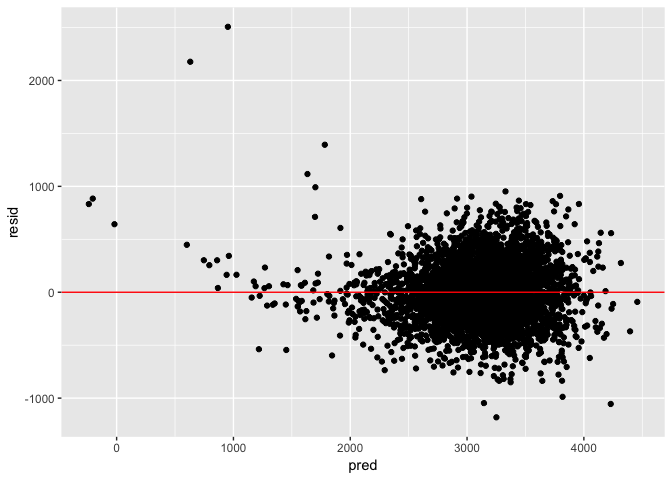
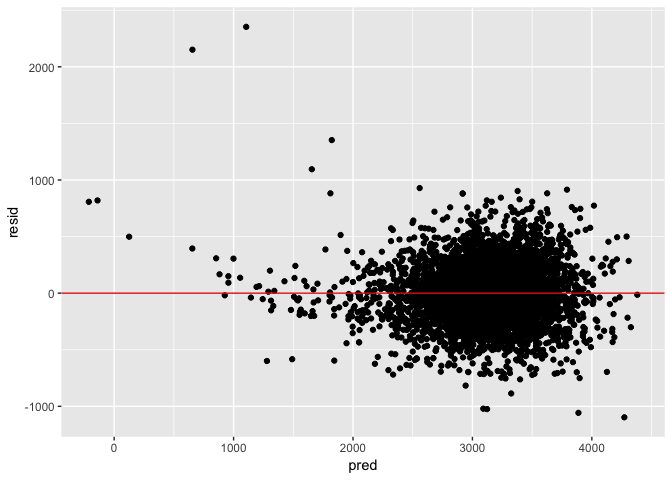
change the model

diff --git a/hw6.md b/hw6.md
@@ -206,86 +206,208 @@ is.na(birth_df)
 ### Model builting
 
 ``` r
-library("leaps")
 mult.fit = lm(bwt ~., data = birth_df)
-summary(mult.fit)
+pred_reg = step(mult.fit, direction = 'both')
 ```
 
+    ## Start:  AIC=48717.83
+    ## bwt ~ babysex + bhead + blength + delwt + fincome + frace + gaweeks + 
+    ##     malform + menarche + mheight + momage + mrace + parity + 
+    ##     pnumlbw + pnumsga + ppbmi + ppwt + smoken + wtgain
     ## 
-    ## Call:
-    ## lm(formula = bwt ~ ., data = birth_df)
     ## 
-    ## Residuals:
-    ##      Min       1Q   Median       3Q      Max 
-    ## -1097.68  -184.86    -3.33   173.09  2344.15 
+    ## Step:  AIC=48717.83
+    ## bwt ~ babysex + bhead + blength + delwt + fincome + frace + gaweeks + 
+    ##     malform + menarche + mheight + momage + mrace + parity + 
+    ##     pnumlbw + pnumsga + ppbmi + ppwt + smoken
     ## 
-    ## Coefficients: (3 not defined because of singularities)
-    ##               Estimate Std. Error t value Pr(>|t|)    
-    ## (Intercept) -6265.3914   660.4011  -9.487  < 2e-16 ***
-    ## babysex2       28.7073     8.4652   3.391 0.000702 ***
-    ## bhead         130.7781     3.4523  37.881  < 2e-16 ***
-    ## blength        74.9536     2.0217  37.075  < 2e-16 ***
-    ## delwt           4.1007     0.3948  10.386  < 2e-16 ***
-    ## fincome         0.2898     0.1795   1.614 0.106551    
-    ## frace2         14.3313    46.1501   0.311 0.756168    
-    ## frace3         21.2361    69.2960   0.306 0.759273    
-    ## frace4        -46.9962    44.6782  -1.052 0.292912    
-    ## frace8          4.2969    74.0741   0.058 0.953745    
-    ## gaweeks        11.5494     1.4654   7.882 4.06e-15 ***
-    ## malform1        9.7650    70.6259   0.138 0.890039    
-    ## menarche       -3.5508     2.8951  -1.226 0.220083    
-    ## mheight         9.7874    10.3116   0.949 0.342588    
-    ## momage          0.7593     1.2221   0.621 0.534418    
-    ## mrace2       -151.4354    46.0453  -3.289 0.001014 ** 
-    ## mrace3        -91.3866    71.9190  -1.271 0.203908    
-    ## mrace4        -56.4787    45.1369  -1.251 0.210901    
-    ## parity         95.5411    40.4793   2.360 0.018307 *  
-    ## pnumlbw             NA         NA      NA       NA    
-    ## pnumsga             NA         NA      NA       NA    
-    ## ppbmi           4.3538    14.8913   0.292 0.770017    
-    ## ppwt           -3.4716     2.6121  -1.329 0.183913    
-    ## smoken         -4.8544     0.5871  -8.269  < 2e-16 ***
-    ## wtgain              NA         NA      NA       NA    
-    ## ---
-    ## Signif. codes:  0 '***' 0.001 '**' 0.01 '*' 0.05 '.' 0.1 ' ' 1
     ## 
-    ## Residual standard error: 272.5 on 4320 degrees of freedom
-    ## Multiple R-squared:  0.7183, Adjusted R-squared:  0.717 
-    ## F-statistic: 524.6 on 21 and 4320 DF,  p-value: < 2.2e-16
+    ## Step:  AIC=48717.83
+    ## bwt ~ babysex + bhead + blength + delwt + fincome + frace + gaweeks + 
+    ##     malform + menarche + mheight + momage + mrace + parity + 
+    ##     pnumlbw + ppbmi + ppwt + smoken
+    ## 
+    ## 
+    ## Step:  AIC=48717.83
+    ## bwt ~ babysex + bhead + blength + delwt + fincome + frace + gaweeks + 
+    ##     malform + menarche + mheight + momage + mrace + parity + 
+    ##     ppbmi + ppwt + smoken
+    ## 
+    ##            Df Sum of Sq       RSS   AIC
+    ## - frace     4    124365 320848704 48712
+    ## - malform   1      1419 320725757 48716
+    ## - ppbmi     1      6346 320730684 48716
+    ## - momage    1     28661 320752999 48716
+    ## - mheight   1     66886 320791224 48717
+    ## - menarche  1    111679 320836018 48717
+    ## - ppwt      1    131132 320855470 48718
+    ## <none>                  320724338 48718
+    ## - fincome   1    193454 320917792 48718
+    ## - parity    1    413584 321137922 48721
+    ## - mrace     3    868321 321592659 48724
+    ## - babysex   1    853796 321578134 48727
+    ## - gaweeks   1   4611823 325336161 48778
+    ## - smoken    1   5076393 325800732 48784
+    ## - delwt     1   8008891 328733230 48823
+    ## - blength   1 102050296 422774634 49915
+    ## - bhead     1 106535716 427260054 49961
+    ## 
+    ## Step:  AIC=48711.51
+    ## bwt ~ babysex + bhead + blength + delwt + fincome + gaweeks + 
+    ##     malform + menarche + mheight + momage + mrace + parity + 
+    ##     ppbmi + ppwt + smoken
+    ## 
+    ##            Df Sum of Sq       RSS   AIC
+    ## - malform   1      1447 320850151 48710
+    ## - ppbmi     1      6975 320855679 48710
+    ## - momage    1     28379 320877083 48710
+    ## - mheight   1     69502 320918206 48710
+    ## - menarche  1    115708 320964411 48711
+    ## - ppwt      1    133961 320982665 48711
+    ## <none>                  320848704 48712
+    ## - fincome   1    194405 321043108 48712
+    ## - parity    1    414687 321263390 48715
+    ## + frace     4    124365 320724338 48718
+    ## - babysex   1    852133 321700837 48721
+    ## - gaweeks   1   4625208 325473911 48772
+    ## - smoken    1   5036389 325885093 48777
+    ## - delwt     1   8013099 328861802 48817
+    ## - mrace     3  13540415 334389119 48885
+    ## - blength   1 101995688 422844392 49908
+    ## - bhead     1 106662962 427511666 49956
+    ## 
+    ## Step:  AIC=48709.53
+    ## bwt ~ babysex + bhead + blength + delwt + fincome + gaweeks + 
+    ##     menarche + mheight + momage + mrace + parity + ppbmi + ppwt + 
+    ##     smoken
+    ## 
+    ##            Df Sum of Sq       RSS   AIC
+    ## - ppbmi     1      6928 320857079 48708
+    ## - momage    1     28660 320878811 48708
+    ## - mheight   1     69320 320919470 48708
+    ## - menarche  1    116027 320966177 48709
+    ## - ppwt      1    133894 320984044 48709
+    ## <none>                  320850151 48710
+    ## - fincome   1    193784 321043934 48710
+    ## + malform   1      1447 320848704 48712
+    ## - parity    1    414482 321264633 48713
+    ## + frace     4    124393 320725757 48716
+    ## - babysex   1    851279 321701430 48719
+    ## - gaweeks   1   4624003 325474154 48770
+    ## - smoken    1   5035195 325885346 48775
+    ## - delwt     1   8029079 328879230 48815
+    ## - mrace     3  13553320 334403471 48883
+    ## - blength   1 102009225 422859375 49906
+    ## - bhead     1 106675331 427525481 49954
+    ## 
+    ## Step:  AIC=48707.63
+    ## bwt ~ babysex + bhead + blength + delwt + fincome + gaweeks + 
+    ##     menarche + mheight + momage + mrace + parity + ppwt + smoken
+    ## 
+    ##            Df Sum of Sq       RSS   AIC
+    ## - momage    1     29211 320886290 48706
+    ## - menarche  1    117635 320974714 48707
+    ## <none>                  320857079 48708
+    ## - fincome   1    195199 321052278 48708
+    ## + ppbmi     1      6928 320850151 48710
+    ## + malform   1      1400 320855679 48710
+    ## - parity    1    412984 321270064 48711
+    ## + frace     4    125020 320732060 48714
+    ## - babysex   1    850020 321707099 48717
+    ## - mheight   1   1078673 321935752 48720
+    ## - ppwt      1   2934023 323791103 48745
+    ## - gaweeks   1   4621504 325478583 48768
+    ## - smoken    1   5039368 325896447 48773
+    ## - delwt     1   8024939 328882018 48813
+    ## - mrace     3  13551444 334408523 48881
+    ## - blength   1 102018559 422875638 49904
+    ## - bhead     1 106821342 427678421 49953
+    ## 
+    ## Step:  AIC=48706.02
+    ## bwt ~ babysex + bhead + blength + delwt + fincome + gaweeks + 
+    ##     menarche + mheight + mrace + parity + ppwt + smoken
+    ## 
+    ##            Df Sum of Sq       RSS   AIC
+    ## - menarche  1    100121 320986412 48705
+    ## <none>                  320886290 48706
+    ## - fincome   1    240800 321127090 48707
+    ## + momage    1     29211 320857079 48708
+    ## + ppbmi     1      7479 320878811 48708
+    ## + malform   1      1678 320884612 48708
+    ## - parity    1    431433 321317724 48710
+    ## + frace     4    124743 320761547 48712
+    ## - babysex   1    841278 321727568 48715
+    ## - mheight   1   1076739 321963029 48719
+    ## - ppwt      1   2913653 323799943 48743
+    ## - gaweeks   1   4676469 325562760 48767
+    ## - smoken    1   5045104 325931394 48772
+    ## - delwt     1   8000672 328886962 48811
+    ## - mrace     3  14667730 335554021 48894
+    ## - blength   1 101990556 422876847 49902
+    ## - bhead     1 106864308 427750598 49952
+    ## 
+    ## Step:  AIC=48705.38
+    ## bwt ~ babysex + bhead + blength + delwt + fincome + gaweeks + 
+    ##     mheight + mrace + parity + ppwt + smoken
+    ## 
+    ##            Df Sum of Sq       RSS   AIC
+    ## <none>                  320986412 48705
+    ## + menarche  1    100121 320886290 48706
+    ## - fincome   1    245637 321232048 48707
+    ## + momage    1     11698 320974714 48707
+    ## + ppbmi     1      8823 320977589 48707
+    ## + malform   1      1884 320984528 48707
+    ## - parity    1    422770 321409181 48709
+    ## + frace     4    128726 320857686 48712
+    ## - babysex   1    846134 321832545 48715
+    ## - mheight   1   1012240 321998651 48717
+    ## - ppwt      1   2907049 323893461 48743
+    ## - gaweeks   1   4662501 325648912 48766
+    ## - smoken    1   5073849 326060260 48771
+    ## - delwt     1   8137459 329123871 48812
+    ## - mrace     3  14683609 335670021 48894
+    ## - blength   1 102191779 423178191 49903
+    ## - bhead     1 106779754 427766166 49950
 
 ``` r
-predict_reg = lm(bwt ~ babysex + bhead + blength + delwt + gaweeks + smoken, data = birth_df)
-summary(predict_reg)
+summary(pred_reg)
 ```
 
     ## 
     ## Call:
-    ## lm(formula = bwt ~ babysex + bhead + blength + delwt + gaweeks + 
-    ##     smoken, data = birth_df)
+    ## lm(formula = bwt ~ babysex + bhead + blength + delwt + fincome + 
+    ##     gaweeks + mheight + mrace + parity + ppwt + smoken, data = birth_df)
     ## 
     ## Residuals:
     ##      Min       1Q   Median       3Q      Max 
-    ## -1181.20  -183.63    -9.49   174.43  2506.57 
+    ## -1097.18  -185.52    -3.39   174.14  2353.44 
     ## 
     ## Coefficients:
     ##               Estimate Std. Error t value Pr(>|t|)    
-    ## (Intercept) -6285.7402    97.0521 -64.767  < 2e-16 ***
-    ## babysex2       30.3364     8.7343   3.473 0.000519 ***
-    ## bhead         137.1933     3.5353  38.806  < 2e-16 ***
-    ## blength        78.8032     2.0720  38.033  < 2e-16 ***
-    ## delwt           2.0766     0.1994  10.416  < 2e-16 ***
-    ## gaweeks        14.0748     1.4976   9.398  < 2e-16 ***
-    ## smoken         -2.1711     0.5823  -3.729 0.000195 ***
+    ## (Intercept) -6098.8219   137.5463 -44.340  < 2e-16 ***
+    ## babysex2       28.5580     8.4549   3.378 0.000737 ***
+    ## bhead         130.7770     3.4466  37.944  < 2e-16 ***
+    ## blength        74.9471     2.0190  37.120  < 2e-16 ***
+    ## delwt           4.1067     0.3921  10.475  < 2e-16 ***
+    ## fincome         0.3180     0.1747   1.820 0.068844 .  
+    ## gaweeks        11.5925     1.4621   7.929 2.79e-15 ***
+    ## mheight         6.5940     1.7849   3.694 0.000223 ***
+    ## mrace2       -138.7925     9.9071 -14.009  < 2e-16 ***
+    ## mrace3        -74.8868    42.3146  -1.770 0.076837 .  
+    ## mrace4       -100.6781    19.3247  -5.210 1.98e-07 ***
+    ## parity         96.3047    40.3362   2.388 0.017004 *  
+    ## ppwt           -2.6756     0.4274  -6.261 4.20e-10 ***
+    ## smoken         -4.8434     0.5856  -8.271  < 2e-16 ***
     ## ---
     ## Signif. codes:  0 '***' 0.001 '**' 0.01 '*' 0.05 '.' 0.1 ' ' 1
     ## 
-    ## Residual standard error: 282 on 4335 degrees of freedom
-    ## Multiple R-squared:  0.6973, Adjusted R-squared:  0.6969 
-    ## F-statistic:  1665 on 6 and 4335 DF,  p-value: < 2.2e-16
+    ## Residual standard error: 272.3 on 4328 degrees of freedom
+    ## Multiple R-squared:  0.7181, Adjusted R-squared:  0.7173 
+    ## F-statistic: 848.1 on 13 and 4328 DF,  p-value: < 2.2e-16
 
 ``` r
-df1 = modelr::add_residuals(birth_df, predict_reg)
-df2 = modelr::add_predictions(birth_df, predict_reg)
+df1 = modelr::add_residuals(birth_df, pred_reg)
+df2 = modelr::add_predictions(birth_df, pred_reg)
 df = merge(df1, df2)
 
 df %>%
@@ -294,7 +416,7 @@ df %>%
 
 ![](hw6_files/figure-markdown_github/unnamed-chunk-7-1.png)
 
-I start with full model. Based on the output, I only keep the coefficient with significant difference 0.01 which includes babysex2, bhead, blength, delwt, gaweeks, smoken for my predictive model.
+I start with full model and use stepwise selection to get my predict model to be: lm(formula = bwt ~ babysex + bhead + blength + delwt + fincome + gaweeks + mheight + mrace + parity + ppwt + smoken, data = birth\_df)
 
 ``` r
 fit1 = lm(bwt ~ blength + gaweeks, data = birth_df)
@@ -361,12 +483,21 @@ cv_df = crossv_mc(birth_df, 100) %>%
 
 cv_df =
   cv_df %>% 
-  mutate(pred_mod = map(train, ~lm(bwt ~ babysex + bhead + blength + delwt + gaweeks + smoken, data = .x)),
+  mutate(pred_reg = map(train, ~lm(formula = bwt ~ babysex + bhead + blength + delwt + fincome + gaweeks + mheight + mrace + parity + ppwt + smoken, data = .x)), 
          fit1 = map(train, ~lm(bwt ~ blength + gaweeks, data = .x)),
-         fit2 = map(train, ~lm(bwt ~ bhead*blength*babysex, data = .x))) %>% 
-  mutate(rmse_pred = map2_dbl(pred_mod, test, ~ rmse(model = .x, data = .y)),
+         fit2 = map(train, ~lm(bwt ~ bhead*blength*babysex, data = .x)))%>% 
+  mutate(rmse_pred = map2_dbl(pred_reg, test, ~ rmse(model = .x, data = .y)),
          rmse_fit1 = map2_dbl(fit1, test, ~ rmse(model = .x, data = .y)),
          rmse_fit2 = map2_dbl(fit2, test, ~ rmse(model = .x, data = .y)))
+```
+
+    ## Warning in predict.lm(model, data): prediction from a rank-deficient fit
+    ## may be misleading
+
+    ## Warning in predict.lm(model, data): prediction from a rank-deficient fit
+    ## may be misleading
+
+``` r
 ### Map the three model to each list of train and use test to obtain rmse
 
 cv_df %>% 
